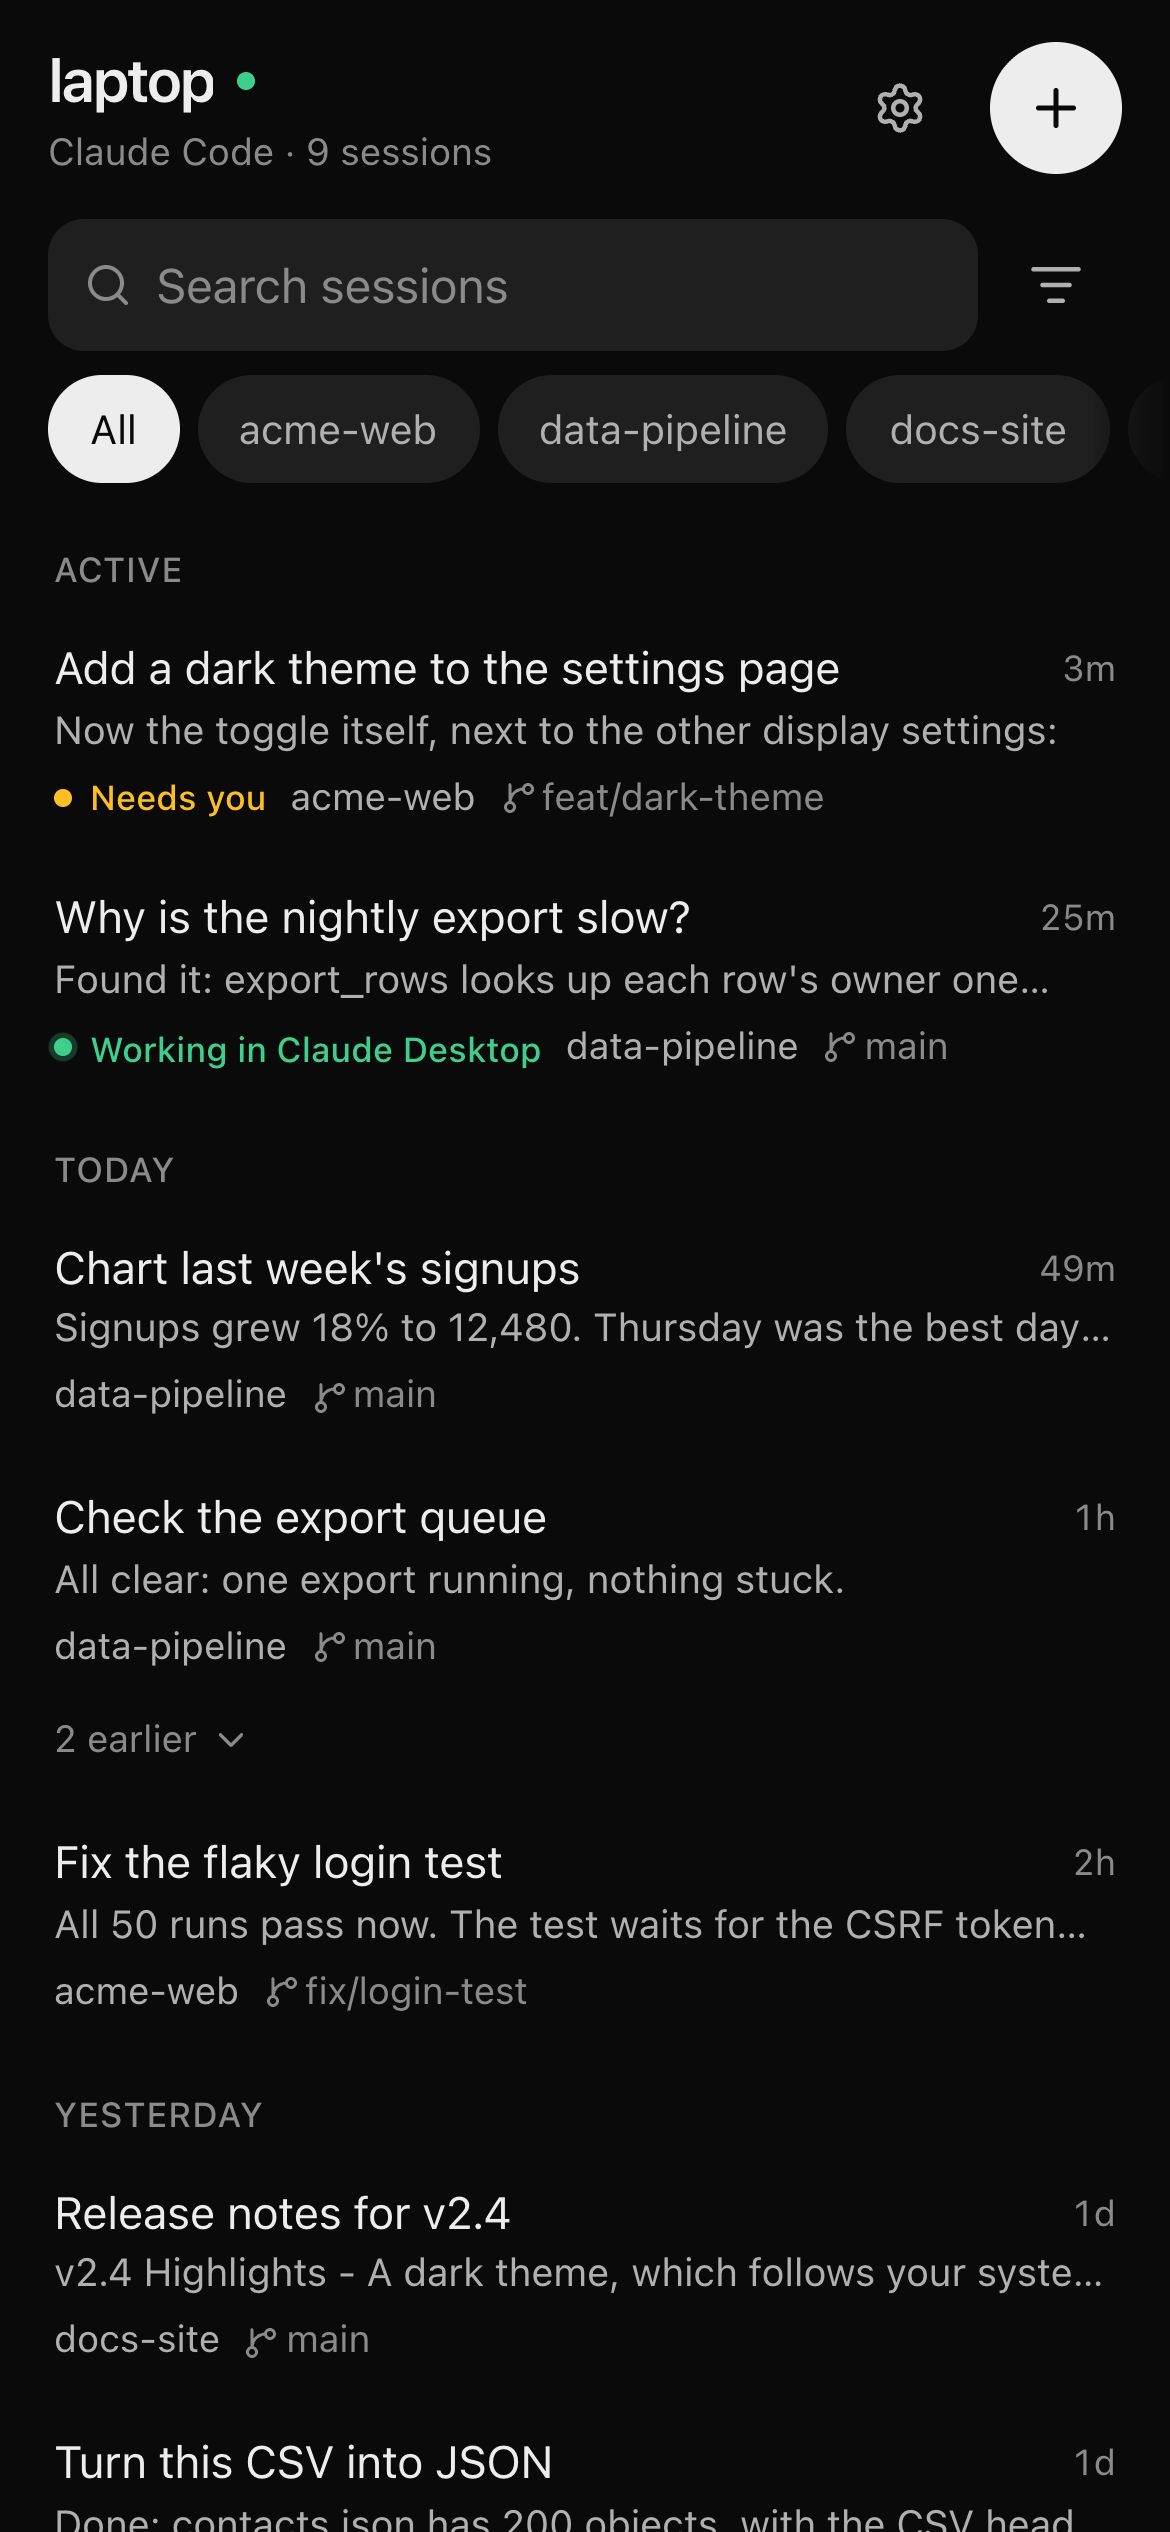
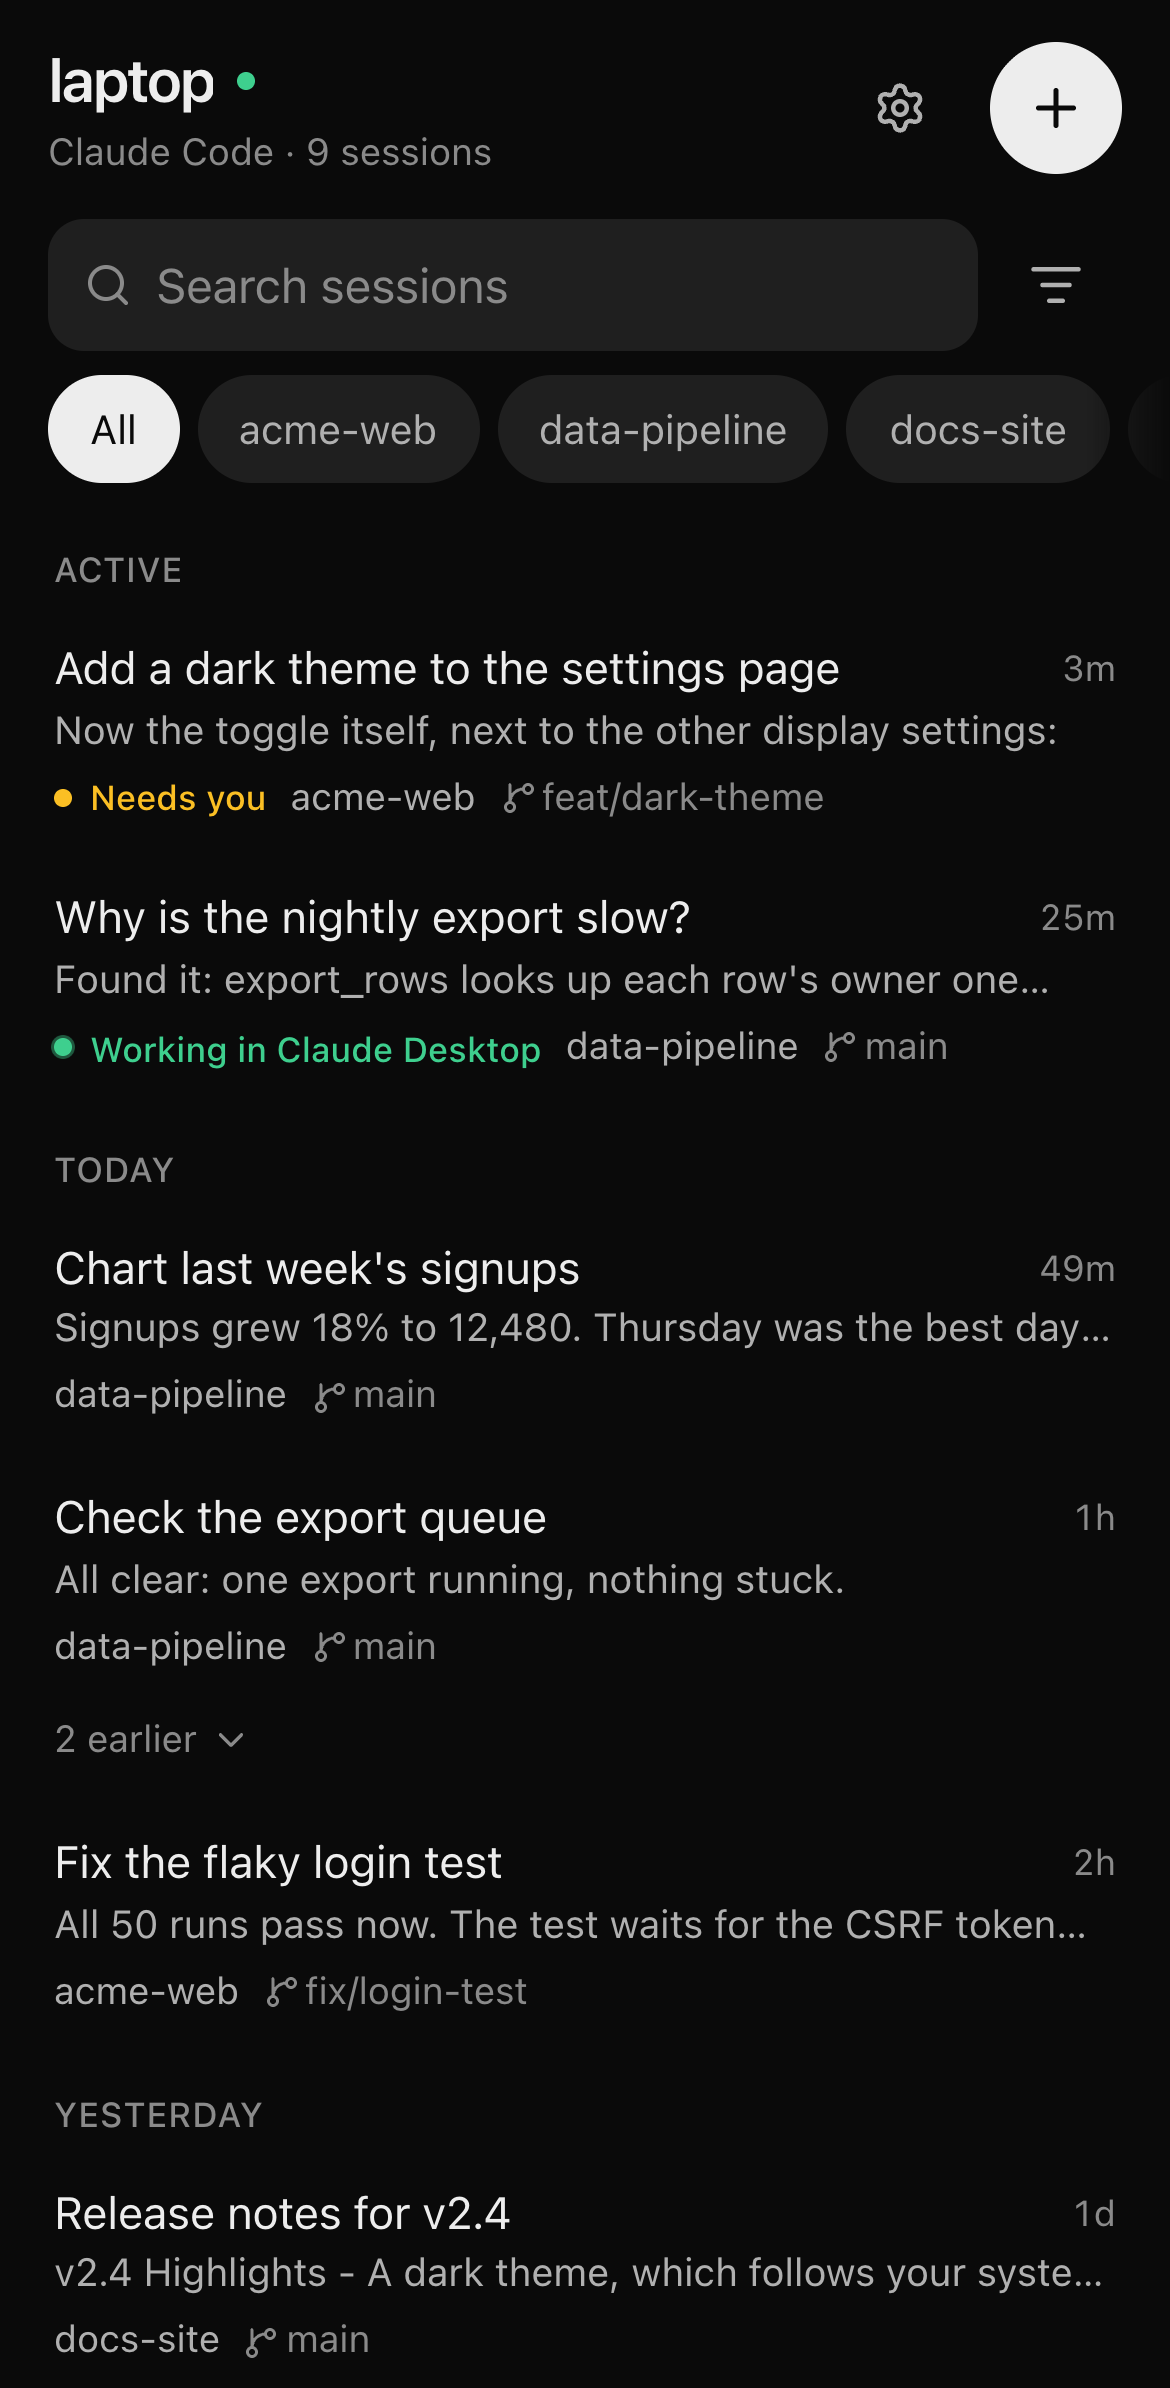
New sessions start at High effort; the site's phone pictures show the whole screen
- High effort until another is picked in Settings (owner's decision); Default picked there stays
  Default, Claude Code's own for the model, and existing sessions keep what they ran with. A model
  that offers no effort levels is sent none.
- The pictures inside the site's phone frames are taken as tall as the frame leaves under its
  status bar, so the message box and its chips are no longer cut off; their one-time tips are
  seen first, since the message box says the same.
- Dependabot leaves @types/node and jsdom majors alone: both follow the oldest Node Pelican
  supports.

diff --git a/site/index.html b/site/index.html
@@ -44,7 +44,7 @@
         <a class="hero-shot" href="demo/" aria-label="Open the live demo">
           <picture>
             <source media="(prefers-color-scheme: dark)" srcset="assets/shots/list-dark.png">
-            <img src="assets/shots/list-light.png" width="1170" height="2532" alt="Pelican on a phone: the session list, with one session waiting for approval and one Claude Desktop is working on">
+            <img src="assets/shots/list-light.png" width="1170" height="2388" alt="Pelican on a phone: the session list, with one session waiting for approval and one Claude Desktop is working on">
           </picture>
         </a>
         <p class="lede">The sessions you started in the terminal, Claude Desktop or your editor, live, with their whole history. Continue any of them from your phone, approve Claude’s edits with the diff, or start new work.</p>
@@ -61,7 +61,7 @@
             <span class="island" aria-hidden="true"></span>
             <div class="status" aria-hidden="true"><span>9:41</span><span class="bars"><span class="signal"><i></i><i></i><i></i><i></i></span><span class="battery"></span></span></div>
             <iframe src="demo/" title="Pelican, running with made-up sessions" loading="lazy"></iframe>
-            <noscript><picture><source media="(prefers-color-scheme: dark)" srcset="assets/shots/list-dark.png"><img class="shot" src="assets/shots/list-light.png" width="1170" height="2532" alt="Pelican on a phone: the session list"></picture></noscript>
+            <noscript><picture><source media="(prefers-color-scheme: dark)" srcset="assets/shots/list-dark.png"><img class="shot" src="assets/shots/list-light.png" width="1170" height="2388" alt="Pelican on a phone: the session list"></picture></noscript>
           </div>
         </div>
         <figcaption class="device-note">The real app, with made-up sessions. Tap around.</figcaption>
@@ -83,7 +83,7 @@
           <p class="after">A session another app is working on says which app, and when it waits for you there. Once it is idle, continue it here.</p>
         </div>
         <figure class="shot-side">
-          <div class="phone"><div class="screen"><span class="island" aria-hidden="true"></span><div class="status" aria-hidden="true"><span>9:41</span><span class="bars"><span class="signal"><i></i><i></i><i></i><i></i></span><span class="battery"></span></span></div><picture><source media="(prefers-color-scheme: dark)" srcset="assets/shots/live-dark.png"><img class="shot" src="assets/shots/live-light.png" width="1170" height="2532" alt="A session Claude Desktop is working on, followed live in Pelican: Claude found why the nightly export is slow" loading="lazy"></picture></div></div>
+          <div class="phone"><div class="screen"><span class="island" aria-hidden="true"></span><div class="status" aria-hidden="true"><span>9:41</span><span class="bars"><span class="signal"><i></i><i></i><i></i><i></i></span><span class="battery"></span></span></div><picture><source media="(prefers-color-scheme: dark)" srcset="assets/shots/live-dark.png"><img class="shot" src="assets/shots/live-light.png" width="1170" height="2388" alt="A session Claude Desktop is working on, followed live in Pelican: Claude found why the nightly export is slow" loading="lazy"></picture></div></div>
           <figcaption>A session Claude Desktop is working on, followed in Pelican.</figcaption>
         </figure>
       </div>

diff --git a/src/web/components/Chat.tsx b/src/web/components/Chat.tsx
@@ -12,7 +12,7 @@ import { clearDraft, moveDraft } from '../lib/drafts';
 import { newId } from '../lib/ids';
 import { baseName, clockTime, shortPath, untilTime } from '../lib/format';
 import { composing, hasKeyboard } from '../lib/keyboard';
-import { loadDefaults, markSeen, markTipSeen, saveSessionChoice, sessionChoice, tipSeen, usePrefs, viewOf } from '../lib/prefs';
+import { loadDefaults, markSeen, markTipSeen, newSessionDefaults, saveSessionChoice, sessionChoice, tipSeen, usePrefs, viewOf } from '../lib/prefs';
 import { fromRecorded } from '../lib/settings';
 import { socket } from '../lib/socket';
 import type { Start } from '../lib/start';
@@ -364,7 +364,7 @@ export function Chat({
   });
   const [settings, setSettings] = useState<RunSettings>(() => {
     // The mode is the session's own; a new session's is worked out below.
-    const { permissionMode: _start, ...base } = loadDefaults();
+    const { permissionMode: _start, ...base } = sessionId ? loadDefaults() : newSessionDefaults();
     if (!sessionId) return carry ? { ...base, ...carry } : base;
     const live = getView(sessionId).run?.settings;
     if (live) return { ...base, ...live };
@@ -484,7 +484,10 @@ export function Chat({
     if (!(busy && mode === 'queue')) addLocalMessage(viewId, localMessage(uuid, text, attachments));
     try {
       // A new session's mode, with Claude Code's settings for its folder read first.
-      const sent = modePicked ? settings : { ...settings, permissionMode: await startModeIn(scratch ? undefined : newCwd, settings) };
+      // An effort the model does not offer (High on a model without efforts) is not sent.
+      const offered = modelOf(modelList?.models, settings);
+      const fitted = settings.effort && offered && !offered.efforts.includes(settings.effort) ? { ...settings, effort: undefined } : settings;
+      const sent = modePicked ? fitted : { ...fitted, permissionMode: await startModeIn(scratch ? undefined : newCwd, fitted) };
       const body = { text, attachments: attachments.map((a) => a.id), settings: sent, uuid, ...(busy ? { mode } : {}), ...(trust ? { trust } : {}) };
       if (sessionId) {
         await api.send(sessionId, body);

diff --git a/src/web/lib/prefs.ts b/src/web/lib/prefs.ts
@@ -28,8 +28,14 @@ const write = (key: string, value: unknown) => {
  * remembered per browser. The permission mode is there only once one was picked in Settings;
  * until then new sessions start in the one Claude Code's settings give, else Auto (startMode).
  */
+/** The effort new sessions start with until another is picked in Settings (owner's decision). */
+export const START_EFFORT = 'high';
+
+type StoredDefaults = Partial<Omit<RunSettings, 'effort'>> & { effort?: string | null };
+
+/** What was picked in Settings, as it is kept: effort null is Default picked there (Claude Code's own for the model). */
 export function loadDefaults(): RunSettings {
-  const raw = read<Partial<RunSettings>>(SETTINGS_KEY, {});
+  const raw = read<StoredDefaults>(SETTINGS_KEY, {});
   return {
     model: raw.model ?? 'default',
     ...(raw.effort ? { effort: raw.effort } : {}),
@@ -39,8 +45,16 @@ export function loadDefaults(): RunSettings {
   };
 }
 
-export function saveDefaults({ permissionMode, ...settings }: RunSettings): void {
-  write(SETTINGS_KEY, { ...settings, ...(permissionMode && START_MODES.includes(permissionMode) ? { permissionMode } : {}) });
+/** What a new session starts with: Settings' picks, with High effort until an effort is picked there. */
+export function newSessionDefaults(): RunSettings {
+  const picked = 'effort' in read<StoredDefaults>(SETTINGS_KEY, {});
+  const defaults = loadDefaults();
+  return picked || defaults.effort ? defaults : { ...defaults, effort: START_EFFORT };
+}
+
+export function saveDefaults({ permissionMode, effort, ...settings }: RunSettings): void {
+  // Default is kept as a pick of its own (null), so it is not taken for nothing picked yet.
+  write(SETTINGS_KEY, { ...settings, effort: effort ?? null, ...(permissionMode && START_MODES.includes(permissionMode) ? { permissionMode } : {}) });
 }
 
 const TIPS_KEY = 'pelican:tips-seen';

diff --git a/test/start-effort.test.ts b/test/start-effort.test.ts
@@ -1,0 +1,38 @@
+// @vitest-environment jsdom
+import { beforeEach, describe, expect, it, vi } from 'vitest';
+
+const KEY = 'pelican:settings';
+
+/** prefs.ts reads storage when it loads: a fresh copy for each case. */
+async function prefs(stored?: unknown) {
+  localStorage.clear();
+  if (stored !== undefined) localStorage.setItem(KEY, JSON.stringify(stored));
+  vi.resetModules();
+  return import('../src/web/lib/prefs');
+}
+
+describe('the effort a new session starts with', () => {
+  beforeEach(() => localStorage.clear());
+
+  it('is High until one is picked in Settings', async () => {
+    const { newSessionDefaults, START_EFFORT } = await prefs();
+    expect(START_EFFORT).toBe('high');
+    expect(newSessionDefaults().effort).toBe('high');
+    // Settings saved by an older Pelican, before effort was a pick of its own.
+    expect((await prefs({ model: 'opus', fast: false })).newSessionDefaults().effort).toBe('high');
+  });
+
+  it('is the one picked, and Default picked stays Default', async () => {
+    expect((await prefs({ model: 'opus', effort: 'low' })).newSessionDefaults().effort).toBe('low');
+    const { newSessionDefaults, saveDefaults, loadDefaults } = await prefs();
+    saveDefaults({ model: 'opus' });
+    expect(JSON.parse(localStorage.getItem(KEY)!)).toMatchObject({ model: 'opus', effort: null });
+    expect(newSessionDefaults().effort).toBeUndefined();
+    expect(loadDefaults().effort).toBeUndefined();
+  });
+
+  it('is not given to an existing session that ran without one', async () => {
+    const { loadDefaults } = await prefs();
+    expect(loadDefaults().effort).toBeUndefined();
+  });
+});

diff --git a/src/web/components/Settings.tsx b/src/web/components/Settings.tsx
@@ -9,7 +9,7 @@ import { api, appBase, type AuthState } from '../lib/api';
 import { untilTime } from '../lib/format';
 import { hasKeyboard, MOD } from '../lib/keyboard';
 import type { NotificationState } from '../lib/notifications';
-import { loadDefaults, type Prefs, saveDefaults, setPrefs, type Theme, usePrefs, type ViewMode } from '../lib/prefs';
+import { newSessionDefaults, type Prefs, saveDefaults, setPrefs, type Theme, usePrefs, type ViewMode } from '../lib/prefs';
 import { ModelSheet, ModelSummary, ModeSheet, modelOf } from './ModelSheet';
 import { Segmented, Sheet, SheetHeading, SheetOption, SheetToggle } from './Sheet';
 import { showShortcuts } from './Shortcuts';
@@ -57,7 +57,7 @@ export function SettingsSheet({
     }));
   const account = models?.account;
   // What new sessions start with. Changed only here: a choice in a session stays with that session.
-  const [defaults, setDefaults] = useState(loadDefaults);
+  const [defaults, setDefaults] = useState(newSessionDefaults);
   const [modelOpen, setModelOpen] = useState(false);
   const [modeOpen, setModeOpen] = useState(false);
   const keep = (next: RunSettings) => {
